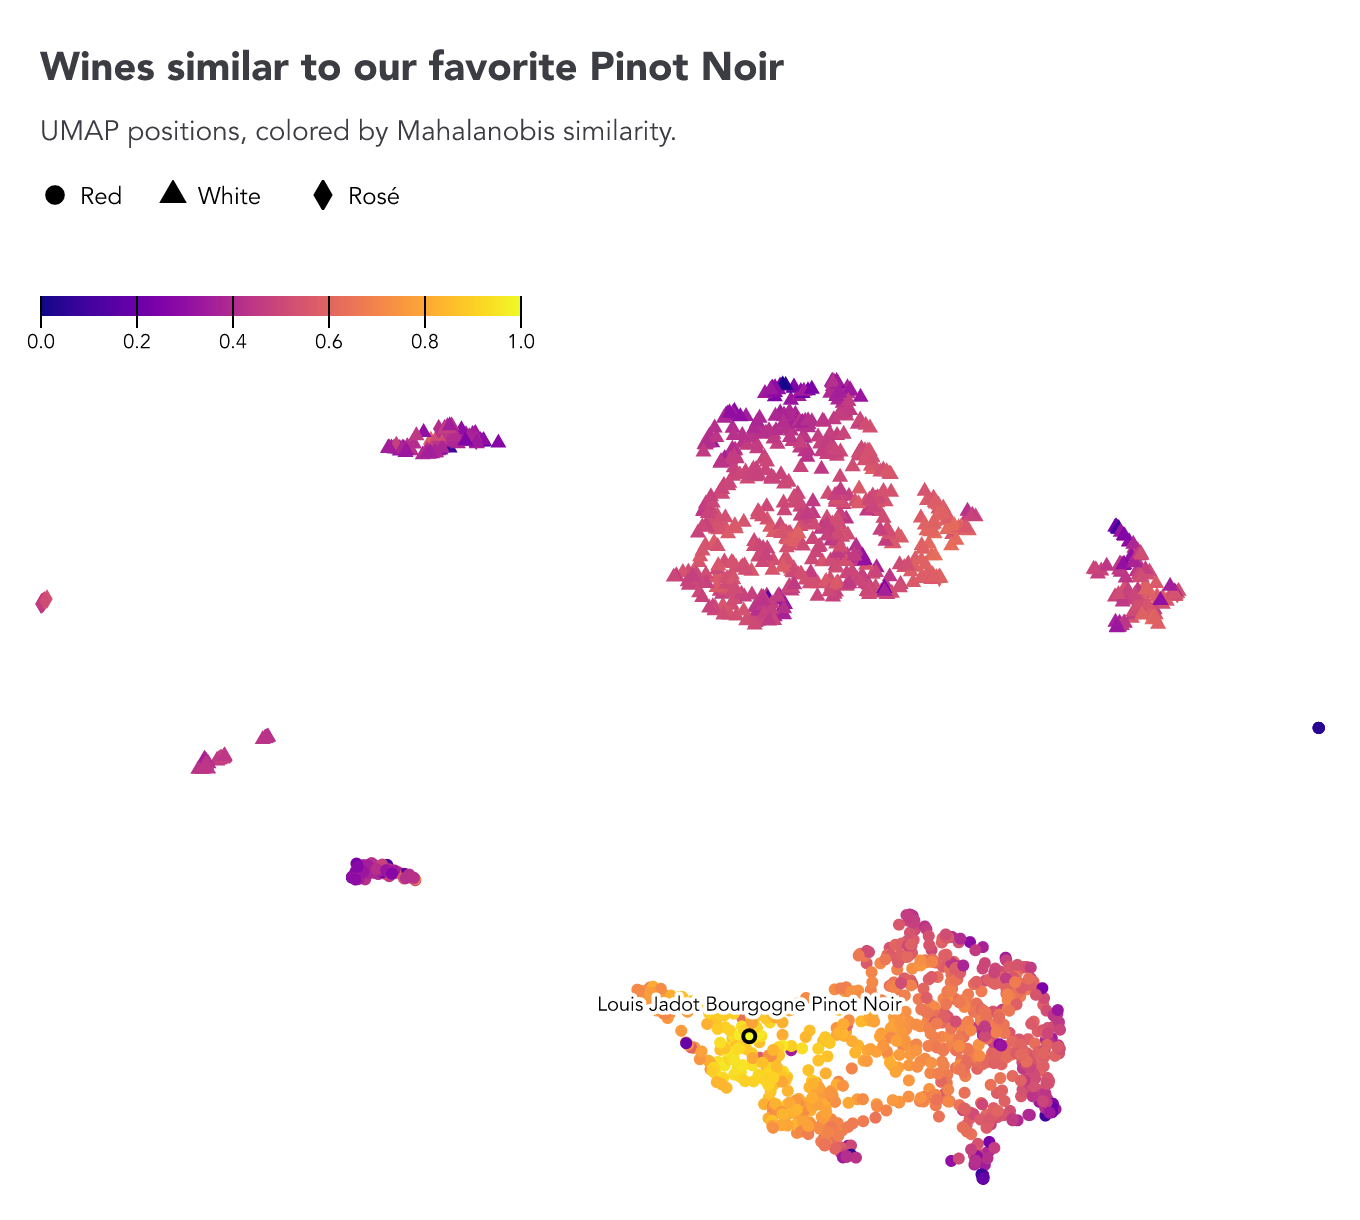
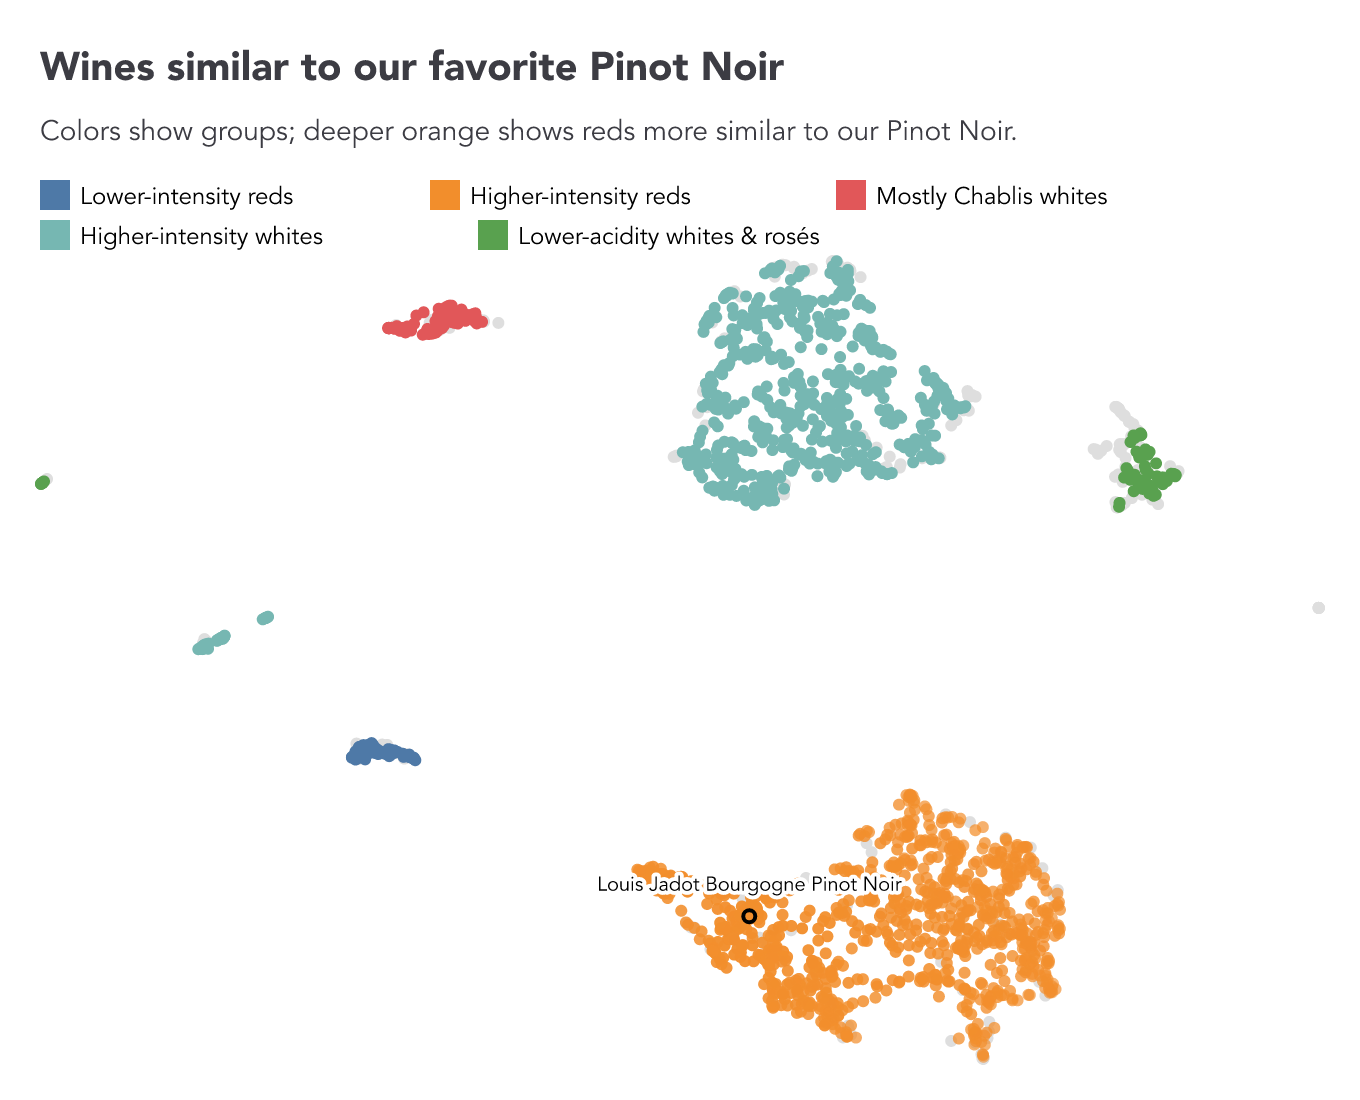
Show wine clusters with similarity-based opacity

diff --git a/test/unit/examples/wineSimilarity.test.ts b/test/unit/examples/wineSimilarity.test.ts
@@ -175,6 +175,20 @@ Deno.test("README wine UMAP example maps all complete wines and retains referenc
     assertEquals(reference.length, 1);
     assertEquals(reference[0].similarity, 1);
     assertEquals(reference[0].distance, 0);
+    assertEquals(reference[0].cluster, "Higher-intensity reds");
+    const clusterCounts: Record<string, number> = {};
+    for (const row of rows) {
+      const cluster = String(row.cluster);
+      clusterCounts[cluster] = (clusterCounts[cluster] ?? 0) + 1;
+    }
+    assertEquals(clusterCounts, {
+      "Higher-intensity whites": 640,
+      "Higher-intensity reds": 896,
+      noise: 233,
+      "Mostly Chablis whites": 93,
+      "Lower-acidity whites & rosés": 67,
+      "Lower-intensity reds": 59,
+    });
     assertEquals(rows.filter((row) => row.wineType === "Red").length, 1026);
     assertEquals(rows.filter((row) => row.wineType === "White").length, 941);
     assertEquals(rows.filter((row) => row.wineType === "Rosé").length, 21);

diff --git a/README.md b/README.md
@@ -918,10 +918,10 @@ including the reference wine.
 | Louis Latour Bourgogne Pinot Noir                            | 0.151    | 0.971      |
 | Albert Bichot Bourgogne Vieilles Vignes de Pinot Noir        | 0.165    | 0.968      |
 
-We can also map the wines with UMAP and color them by their similarity to our
-favorite, using the same four features. Color shows the Mahalanobis similarity
-score; position shows approximate relationships between wines. The outlined dot
-marks our reference wine.
+We can also group wines with HDBSCAN and map them with UMAP, using the same four
+features. After inspecting each group, we give it a descriptive name. Color
+shows the group; within the higher-intensity reds, more opaque points are more
+similar to our favorite Pinot Noir. The outlined dot marks our reference wine.
 
 ```ts
 import { SimpleDB } from "@nshiab/simple-data-analysis";
@@ -948,37 +948,58 @@ await wines
     "distance",
     { similarityColumn: true },
   )
+  .hdbscan(
+    ["acidity", "intensity", "sweetness", "tannin"],
+    "cluster",
+    { minClusterSize: 40, minSamples: 10 },
+  )
+  .replace("cluster", {
+    "cluster-0": "Lower-intensity reds",
+    "cluster-1": "Higher-intensity reds",
+    "cluster-2": "Mostly Chablis whites",
+    "cluster-3": "Higher-intensity whites",
+    "cluster-4": "Lower-acidity whites & rosés",
+  })
   .umap(["acidity", "intensity", "sweetness", "tannin"])
   .writeChart(
     (data) =>
       plot({
         title: "Wines similar to our favorite Pinot Noir",
-        subtitle: "UMAP positions, colored by Mahalanobis similarity.",
+        subtitle:
+          "Colors show groups; deeper orange shows reds more similar to our Pinot Noir.",
         x: { axis: null },
         y: { axis: null },
         color: {
-          type: "linear",
-          scheme: "plasma",
+          domain: [
+            "Lower-intensity reds",
+            "Higher-intensity reds",
+            "Mostly Chablis whites",
+            "Higher-intensity whites",
+            "Lower-acidity whites & rosés",
+          ],
+          scheme: "tableau10",
+          unknown: "#dedede",
           legend: true,
-          label: null,
         },
-        symbol: {
-          domain: ["Red", "White", "Rosé"],
-          range: ["circle", "triangle", "diamond"],
-          legend: true,
-          label: null,
-        },
+        opacity: { domain: [0, 1], range: [0, 1] },
         marks: [
           dot(data, {
             x: "umapX",
             y: "umapY",
-            fill: "similarity",
-            symbol: "wineType",
+            fill: "cluster",
+            fillOpacity: (d) =>
+              d.cluster === "Higher-intensity reds"
+                ? 0.5 + 0.5 * d.similarity
+                : 1,
             r: 3,
             stroke: "black",
             strokeWidth: (d) => d.fullName === reference.fullName ? 2 : 0,
-            sort: (d: { fullName: string }) =>
-              d.fullName === reference.fullName ? 1 : 0,
+            sort: (d: { fullName: string; cluster: string }) =>
+              d.fullName === reference.fullName
+                ? 2
+                : d.cluster === "noise"
+                ? 0
+                : 1,
           }),
           text(data, {
             filter: (d) => d.fullName === reference.fullName,
@@ -998,10 +1019,12 @@ await wines
 await sdb.close();
 ```
 
-In this chart, yellow marks the wines most similar to our favorite Pinot Noir.
-Circles represent red wines, triangles white wines, and diamonds rosés.
+In this chart, opacity ranges from 0.5 to 1 for the higher-intensity reds, based
+on their similarity score. Other groups stay fully opaque; gray points are
+unclustered. Filling missing tannin values with zero contributes to the
+separation between wine types.
 
-![UMAP scatterplot of wines colored by similarity, with Louis Jadot Bourgogne Pinot Noir highlighted.](./assets/wines-umap.png)
+![UMAP scatterplot of wines colored by HDBSCAN group, with opacity showing similarity among higher-intensity reds, with Louis Jadot Bourgogne Pinot Noir highlighted.](./assets/wines-umap.png)
 
 #### Network analysis
 
